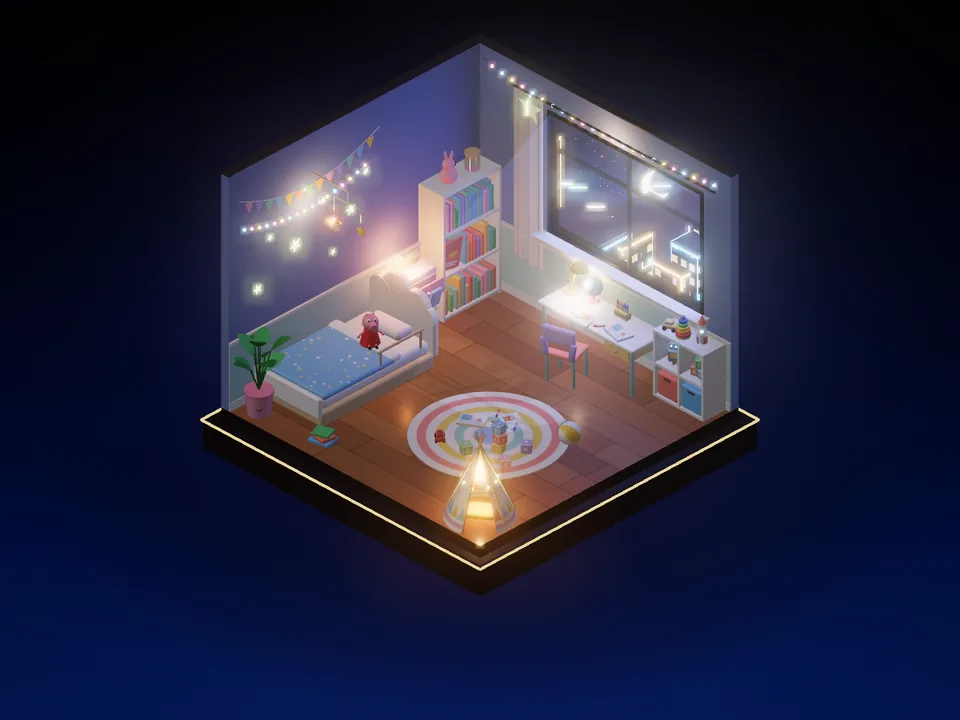
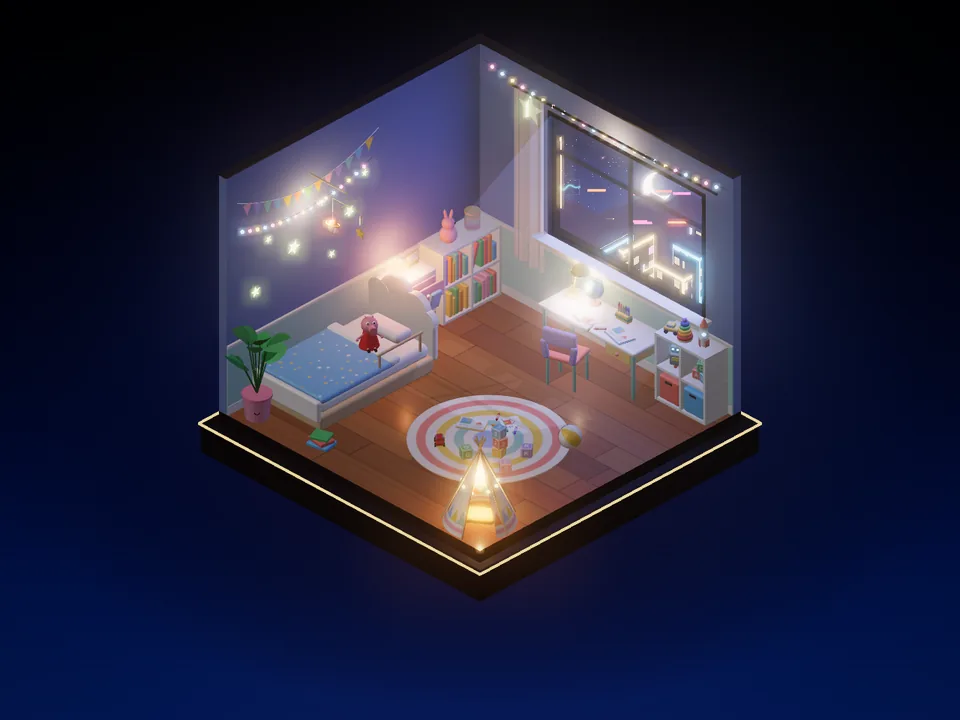
Girl's room: switch to a 2x2 cube bookshelf
Fill all four cubbies with books, lower the marble jar and bunny to the
new shelf top, and retake the girl's room gallery thumbnails.

diff --git a/girl.html b/girl.html
@@ -389,36 +389,35 @@ const sweater = rbox(1.06,0.55,0.18,0.08, lilac, 0,1.68,0.46, chair); sweater.ro
 rbox(0.2,0.6,0.16,0.07, lilac, -0.45,1.25,0.5, chair).rotation.z = 0.15;
 rbox(0.2,0.6,0.16,0.07, lilac, 0.45,1.25,0.5, chair).rotation.z = -0.15;
 
-/* ---------- bookshelf (back-left corner) ---------- */
-const bsx = -4.5, bsz = -3.7, bw = 2.3, bd = 1.0, bh = 4.2;
-const shelfMat = white;
-box(bd, bh, 0.08, shelfMat, bsx, bh/2, bsz-bw/2+0.04);
-box(bd, bh, 0.08, shelfMat, bsx, bh/2, bsz+bw/2-0.04);
+/* ---------- 2x2 cube bookshelf (back-left corner) ---------- */
+const bsx = -4.5, bsz = -3.7, bw = 2.3, bd = 1.0, bh = 2.3;
+for(const z of [bsz-bw/2+0.04, bsz, bsz+bw/2-0.04]) box(bd, bh, 0.08, white, bsx, bh/2, z);
+for(const y of [0.04, bh/2, bh-0.04]) box(bd, 0.08, bw-0.16, white, bsx, y, bsz);
 box(0.04, bh-0.04, bw-0.16, std('#c9b7ef',0.8), -4.89, bh/2, bsz);  // kept clear of the wainscot and rail to avoid z-fighting
-const boards = [0.1, 1.45, 2.8, 4.16];
-boards.forEach(y=>box(bd, 0.08, bw-0.16, shelfMat, bsx, y, bsz));
-const zs = bsz-bw/2+0.12, ze = bsz+bw/2-0.12;
-for(let r=0;r<3;r++){
-  const y0 = boards[r]+0.04;
-  let z = zs;
-  const zEnd = r===1 ? ze-0.75 : ze;
+const cubby = [[bsz-bw/2+0.1, bsz-0.06],[bsz+0.06, bsz+bw/2-0.1]];   // z ranges of left / right column
+const rowY = [0.08, bh/2+0.04];                                        // shelf surface of bottom / top row
+function fillBooks(z0, z1, y0, maxH){
+  let z = z0;
   while(true){
-    const th = R(0.1,0.2); if(z+th > zEnd) break;
-    if(rand()<0.08){ z += 0.1; continue; }
-    const h = R(0.6,1.05), d = R(0.62,0.78);
+    const th = R(0.1,0.19); if(z+th > z1) break;
+    if(rand()<0.08){ z += 0.08; continue; }
+    const h = R(0.55, maxH), d = R(0.62,0.78);
     book(-4.06-d/2, y0+h/2, z+th/2, d, h, th-0.012, pick(kidCols));
     z += th;
   }
-  if(r===1){ const fb = book(-4.2, y0+0.5, ze-0.4, 0.06, 1.0, 0.7, '#ff8a7a'); fb.rotation.z = -0.18;
-    const coverTex = canvasTex(128,180,(c,W,H)=>{ c.fillStyle='#ff8a7a'; c.fillRect(0,0,W,H); c.fillStyle='#ffd25a'; c.beginPath(); c.arc(W/2,H*0.42,34,0,Math.PI*2); c.fill(); c.fillStyle='#fffaf0'; c.fillRect(20,H*0.75,W-40,10); c.fillRect(30,H*0.84,W-60,8); });
-    const cv = mesh(new THREE.PlaneGeometry(0.66,0.95), new THREE.MeshStandardMaterial({ map:coverTex, roughness:0.7 }), -4.165, y0+0.5, ze-0.4); cv.rotation.set(0,Math.PI/2,-0.18); cv.position.x += 0.005; }
 }
+// all four cubbies filled with books; one leans at the end of the top-left cubby
+fillBooks(cubby[0][0], cubby[0][1], rowY[0], 0.98);
+fillBooks(cubby[1][0], cubby[1][1], rowY[0], 0.98);
+fillBooks(cubby[0][0], cubby[0][1]-0.3, rowY[1], 0.95);
+const lean = book(-4.45, rowY[1]+0.42, cubby[0][1]-0.16, 0.7, 0.86, 0.14, '#ff8a7a'); lean.rotation.x = -0.32;
+fillBooks(cubby[1][0], cubby[1][1], rowY[1], 0.95);
 // jar of marbles on top (glass)
-cyl(0.22,0.22,0.5, glass, -4.5, 4.45, -4.2).castShadow = false;
-for(let i=0;i<22;i++) sph(0.055, std(pick(kidCols),0.15,0.1), -4.5+R(-0.13,0.13), 4.25+R(0,0.25), -4.2+R(-0.13,0.13));
-cyl(0.23,0.23,0.06, woodL, -4.5, 4.73, -4.2);
+cyl(0.22,0.22,0.5, glass, -4.5, bh+0.25, -4.2).castShadow = false;
+for(let i=0;i<22;i++) sph(0.055, std(pick(kidCols),0.15,0.1), -4.5+R(-0.13,0.13), bh+0.05+R(0,0.25), -4.2+R(-0.13,0.13));
+cyl(0.23,0.23,0.06, woodL, -4.5, bh+0.53, -4.2);
 // stuffed bunny on top
-const bunny = new THREE.Group(); bunny.position.set(-4.45,4.2,-3.2); bunny.rotation.y = 0.9; room.add(bunny);
+const bunny = new THREE.Group(); bunny.position.set(-4.45,bh,-3.2); bunny.rotation.y = 0.9; room.add(bunny);
 sph(0.26, pinkM, 0,0.24,0, bunny).scale.set(1,1.05,0.9);
 sph(0.19, pinkM, 0,0.6,0, bunny);
 for(const s of [-1,1]){ const e = sph(0.06, pinkM, s*0.08,0.88,0, bunny); e.scale.set(0.8,3,0.6); e.rotation.z = -s*0.15; }
